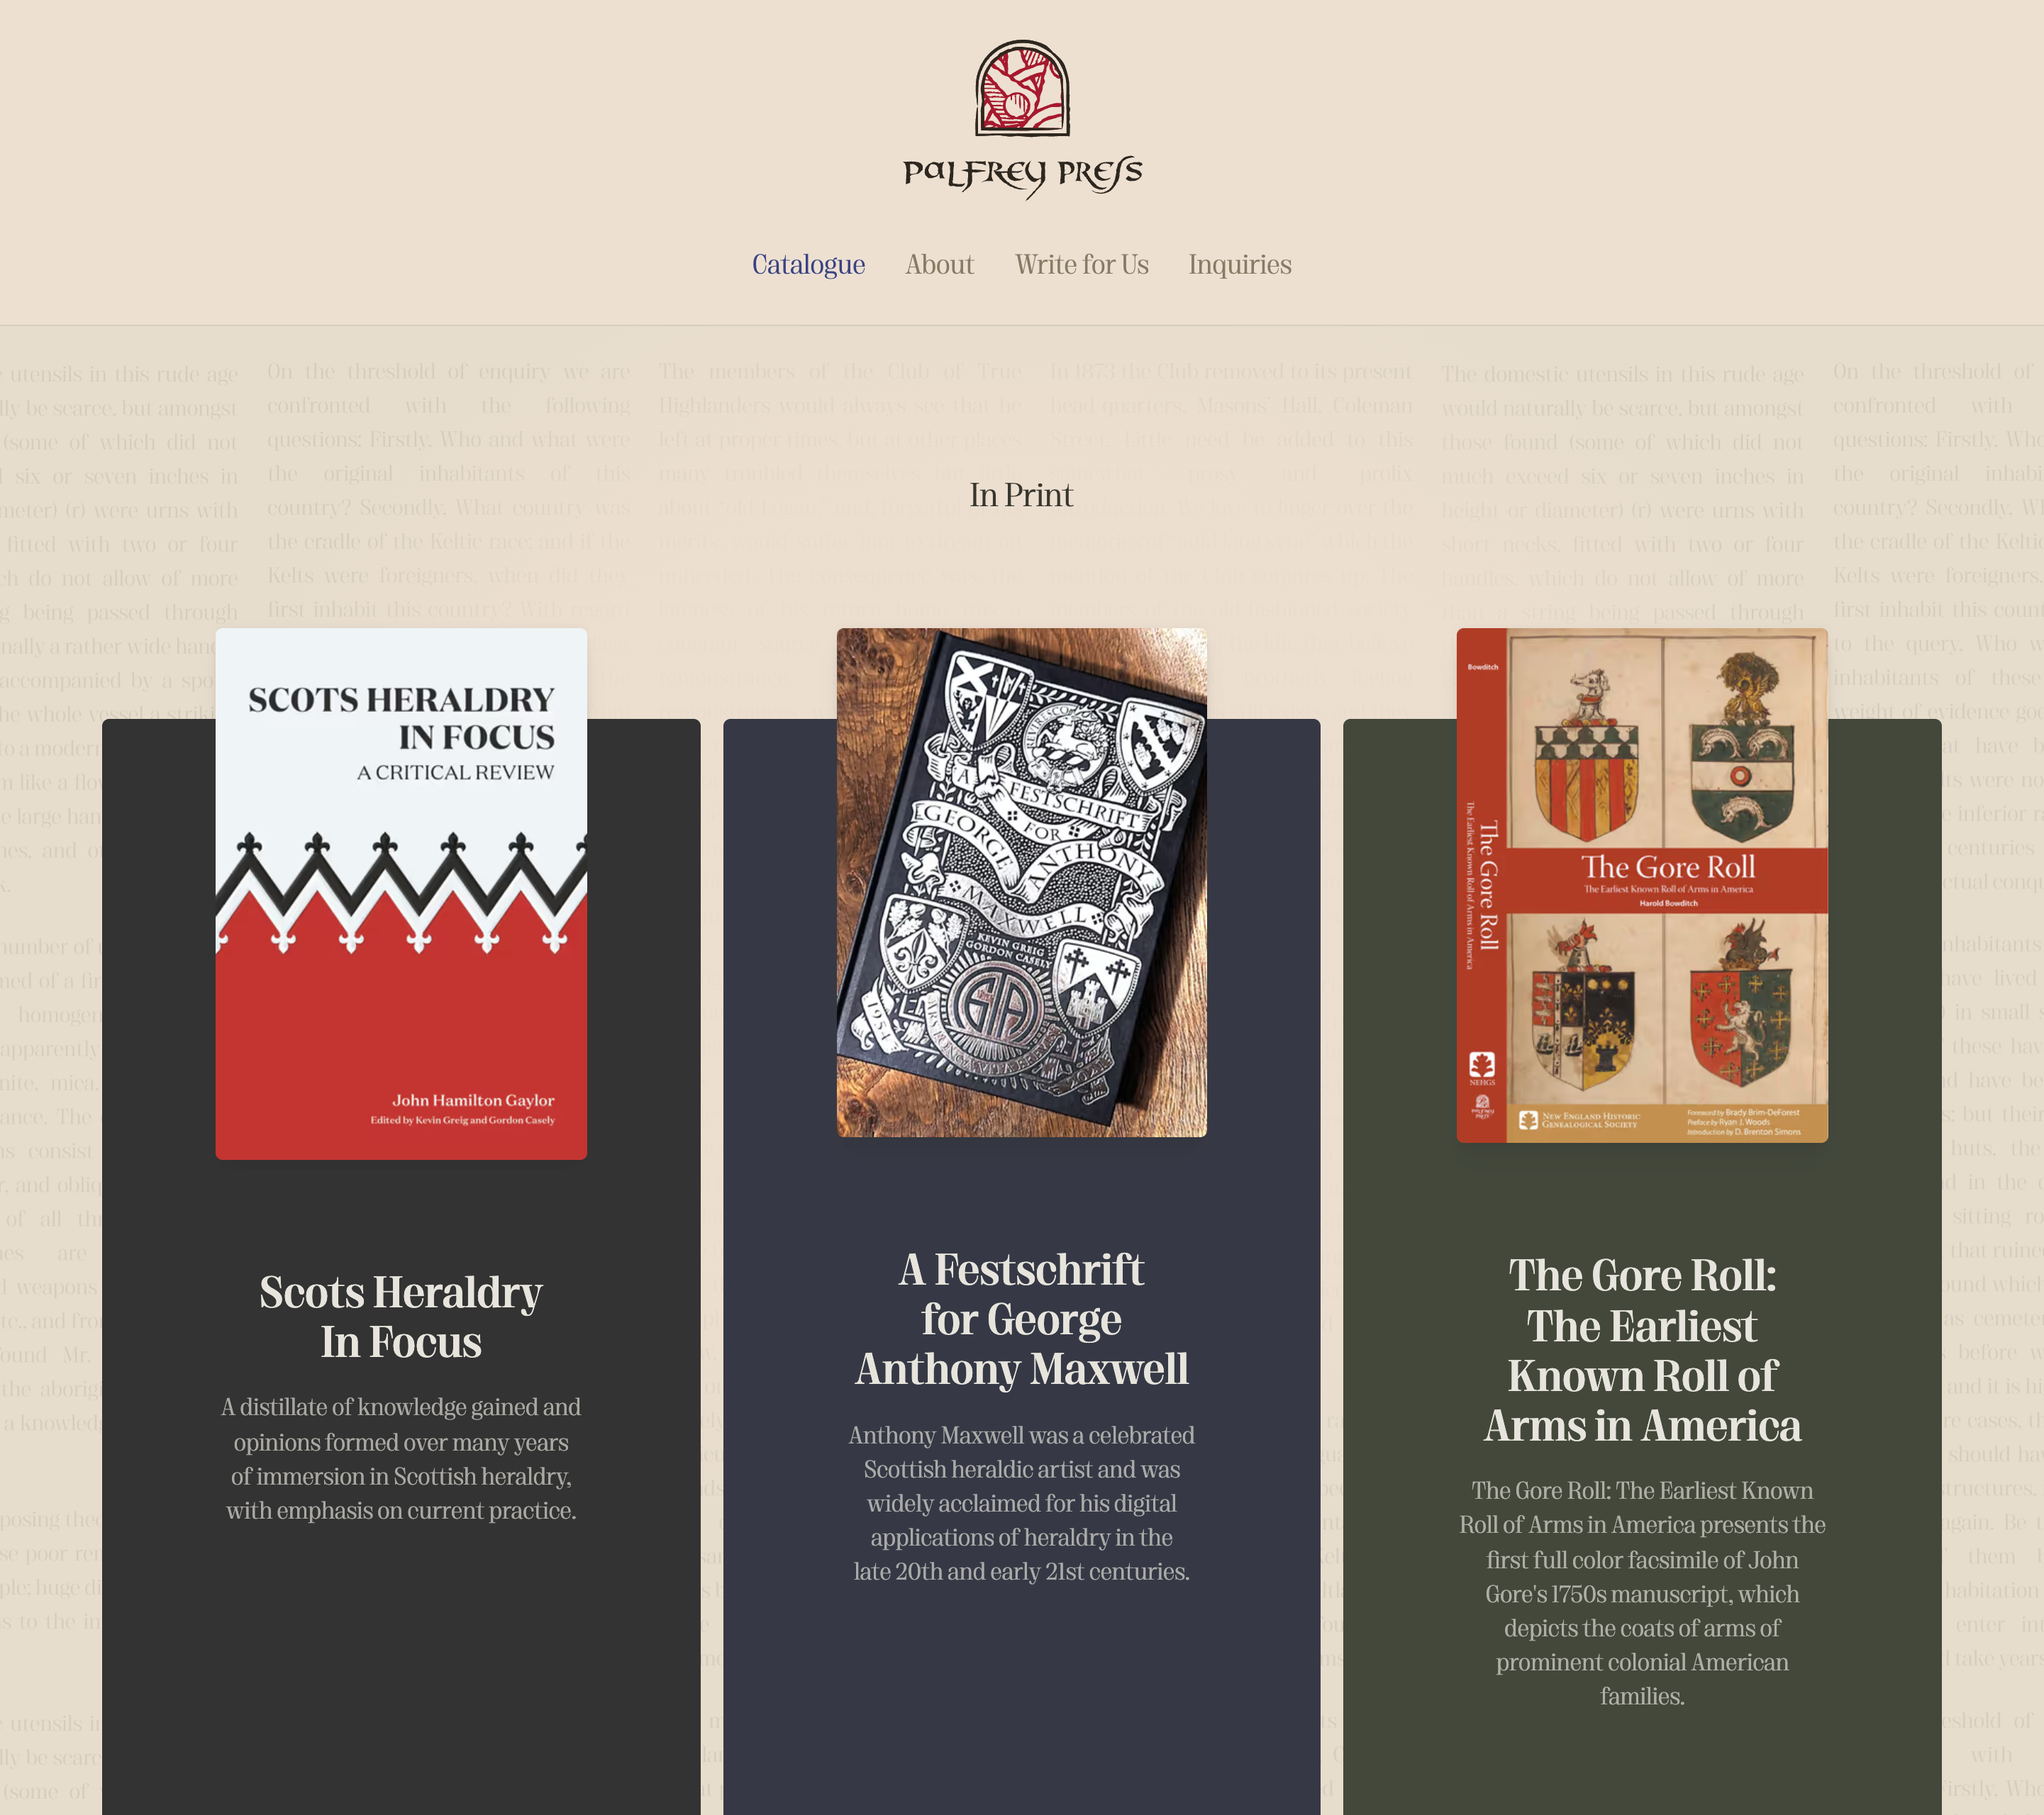
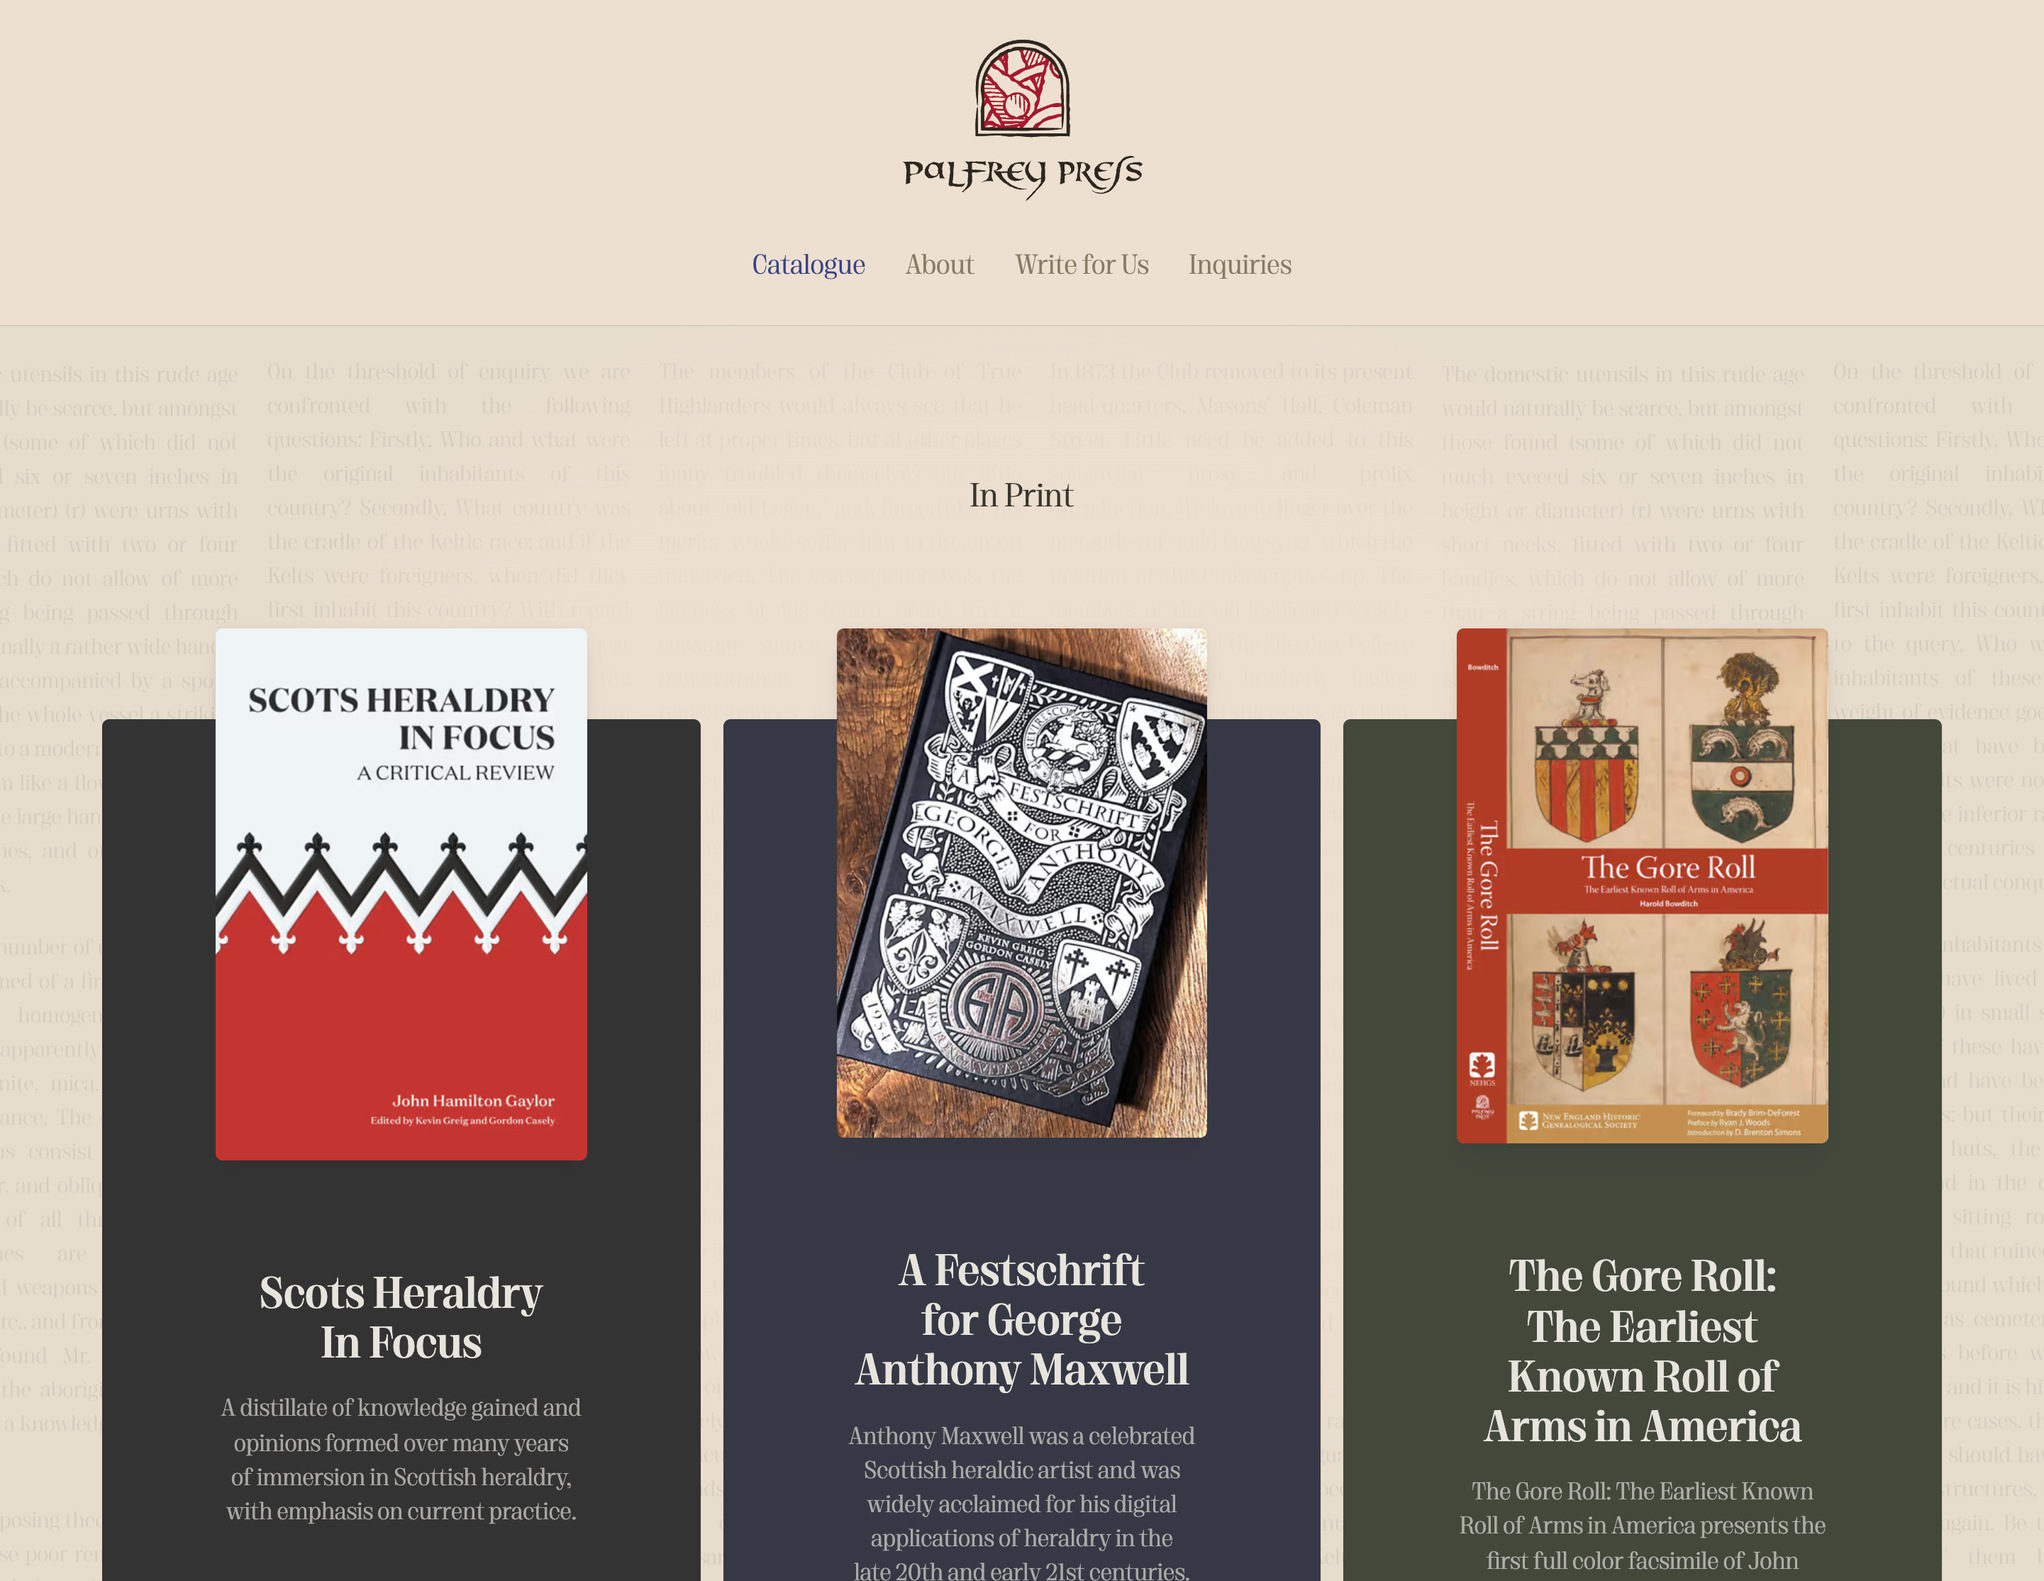
fix: minor updates to "palfrey press" assets

diff --git a/src/lib/stores/projectsStore.ts b/src/lib/stores/projectsStore.ts
@@ -141,12 +141,12 @@ let projects: Project[] = [
 		theme: 'palfrey-press',
 		images: [
 			'palfrey-press-homepage.png',
-			'palfrey-press-catalog.png',
 			'palfrey-press-about.png',
+			'palfrey-press-card-3.png',
 			'palfrey-press-card-1.png',
 			'palfrey-press-card-2.png',
-			'palfrey-press-card-3.png',
-			'palfrey-press-card-4.png'
+			'palfrey-press-card-4.png',
+			'palfrey-press-catalog.png'
 		]
 	}
 ];

diff --git a/src/lib/components/ProjectCard.svelte b/src/lib/components/ProjectCard.svelte
@@ -133,7 +133,7 @@
 	}
 
 	p.p {
-		max-width: var(--size-header-3);
+		max-width: 65ch;
 		font-weight: var(--font-weight-1);
 		text-wrap: balance;
 		opacity: 0.66;
